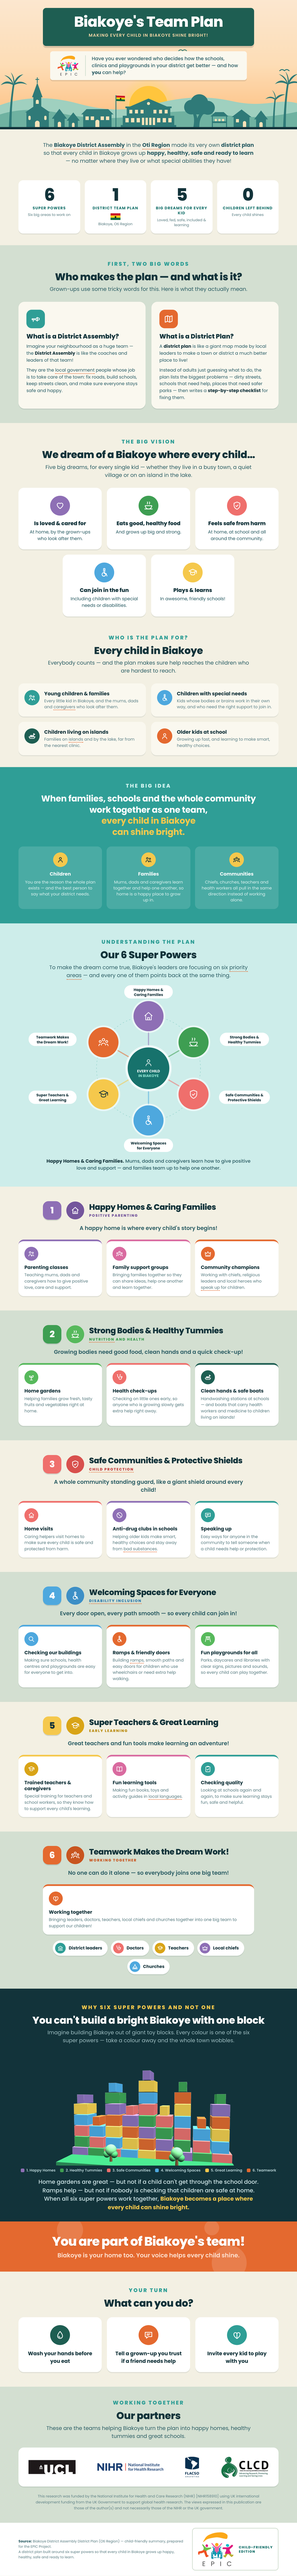
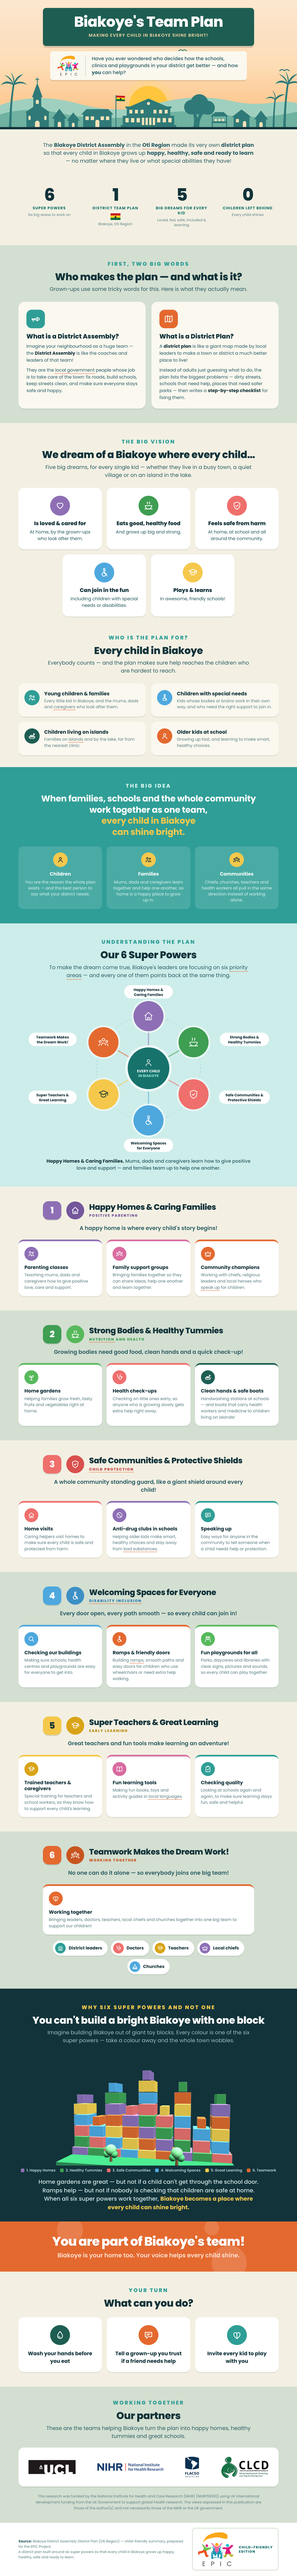
Drop the white background from the fact strip cards
The four fact cards (6 / 1 / 5 / 0) now sit directly on the cream section
background instead of on white tiles. The drop shadow goes too: on a
transparent card it would render as a stray line under each fact.

Screenshots 03-key-facts and 00-full-poster are refreshed to match.

Changed region(s): [[0.0622, 0.0624, 0.9333, 0.0936]]

diff --git a/index.html b/index.html
@@ -81,7 +81,7 @@ p.lede{
 
 /* ---------- fact strip ---------- */
 .facts{display:grid;grid-template-columns:repeat(4,1fr);gap:14px}
-.fact{background:#fff;border-radius:14px;padding:20px 12px 18px;text-align:center;box-shadow:0 3px 0 rgba(18,51,58,.09)}
+.fact{background:transparent;border-radius:14px;padding:20px 12px 18px;text-align:center}
 .fact .num{font-size:52px;font-weight:800;line-height:.92;letter-spacing:-2px;color:var(--ink)}
 .fact .lbl{margin-top:9px;font-size:11.5px;font-weight:700;letter-spacing:1.1px;text-transform:uppercase;color:var(--teal-deep);line-height:1.35}
 .fact .sub{margin-top:5px;font-size:11px;font-weight:400;color:var(--ink-3);line-height:1.35}
